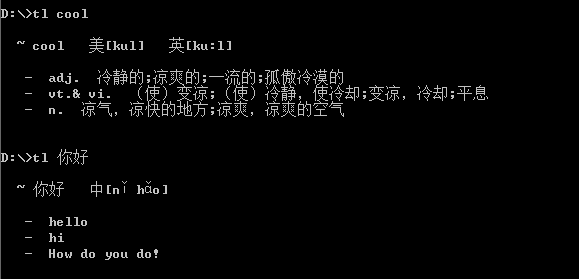
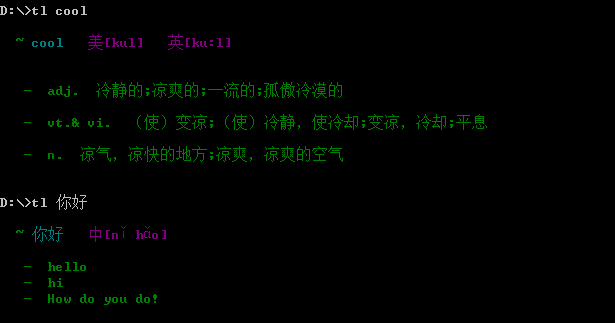
添加彩色翻译结果

diff --git a/engine/youdao.js b/engine/youdao.js
@@ -1,17 +1,18 @@
 const http = require('http');
+const chalk = require('chalk');
 
 module.exports = (query, config) => {
   const pos = Math.floor(Math.random() * config.youdao.length);
   const key = config.youdao[pos].key;
   const keyfrom = config.youdao[pos].keyfrom;
-
+  const q = query.join(' ');
   const data = {
     key,
     keyfrom,
     type: 'data',
     doctype: 'json',
     version: '1.1',
-    q: query.join(' ')
+    q
   }
 
   const errorCode = {
@@ -40,38 +41,39 @@ module.exports = (query, config) => {
       resData = JSON.parse(resData);
       let str = '';
       if (resData.errorCode === 0) {
-        str += `\r\n  ~ ${resData.query}`;
+        str += `\r\n  ${chalk.green('~')} ${chalk.cyan(resData.query)}`;
         
         if ('basic' in resData) {
           let basic = resData.basic
           if ('phonetic' in basic) {
-            str += `-[${basic.phonetic}]`;
+            str +=  chalk.magenta(` - [${basic.phonetic}]`);
           }
           if ('us-phonetic' in basic) {
-            str += `   美[${basic['us-phonetic']}]`;
+            str += chalk.magenta(`   美[${basic['us-phonetic']}]`);
           }
           if ('uk-phonetic' in basic) {
-            str += `   英[${basic['uk-phonetic']}]`;
+            str += chalk.magenta(`   英[${basic['uk-phonetic']}]`);
           }
-          str += `\r\n  ~ ${resData.translation.join(',')}`;
+          str += `\r\n  ${chalk.green('~')} ${chalk.cyan(resData.translation.join(','))}`;
           
           if ('explains' in basic) {
             str += `\r\n`;
             for (let item of basic.explains) {
-              str += `\r\n   -  ${item}`;
+              str += chalk.green(`\r\n   -  ${item}`);
             }
             str += `\r\n`;
           }
         } else {
-          str += `\r\n  ~ ${resData.translation.join(',')}`;
+          str += `\r\n  ${chalk.green('~')} ${chalk.cyan(resData.translation.join(','))}`;
         }
         
 
         if ('web' in resData) {
           let count = 1;
+          let regExp = new RegExp(`(${query.join('|')})`, 'ig');
           for (let item of resData.web) {
-            str += `\r\n   ${count++}. ${item.key}`;
-            str += `\r\n     ${item.value.join(',')} \r\n`;
+            str += `\r\n   ${chalk.gray(count++)}. ${item.key.replace(regExp, chalk.yellow(`$&`))}`;
+            str += chalk.blue(`\r\n     ${item.value.join(',')} \r\n`);
           }
           str += `\r\n`;
         }

diff --git a/engine/iciba.js b/engine/iciba.js
@@ -1,4 +1,5 @@
 const http = require('http');
+const chalk = require('chalk');
 
 module.exports = (query, config) => {
   const key = config.iciba.key;
@@ -26,33 +27,33 @@ module.exports = (query, config) => {
       resData = JSON.parse(resData);
       let str = '';
       if ('word_name' in resData) {
-        str += `\r\n  ~ ${resData.word_name}`;
+        str += `\r\n  ${chalk.green('~')} ${chalk.cyan(resData.word_name)}`;
         let symbols = resData.symbols[0];
         if ('word_symbol' in symbols) {
           if (symbols.word_symbol !== '') {
-            str += `   中[${symbols.word_symbol}]`;
+            str += chalk.magenta(`   中[${symbols.word_symbol}]`);
           }
 
           if ('parts' in symbols) {
             str += `\r\n`;
             for (let item of symbols.parts[0].means) {
-              str += `\r\n   -  ${item.word_mean} `;
+              str += chalk.green(`\r\n   -  ${item.word_mean} `);
             }
             str += `\r\n`;
           }
 
         } else {
           if (symbols.ph_am !== '') {
-            str += `   美[${symbols.ph_am}]`;
+            str += chalk.magenta(`   美[${symbols.ph_am}]`);
           }
           if (symbols.ph_en !== '') {
-            str += `   英[${symbols.ph_en}]`;
+            str += chalk.magenta(`   英[${symbols.ph_en}]`);
           }
           
           if ('parts' in symbols) {
             str += `\r\n`;
             for (let item of symbols.parts) {
-              str += `\r\n   -  ${item.part}  ${item.means.join(';')}`;
+              str += chalk.green(`\r\n\r\n   -  ${item.part}  ${item.means.join(';')}`);
             }
             str += `\r\n`;
           }

diff --git a/engine/baidu.js b/engine/baidu.js
@@ -1,5 +1,6 @@
 const http = require('http');
 const MD5 = require('../lib/md5');
+const chalk = require('chalk');
 
 module.exports = (query, config) => {
   const appid = config.baidu.appid;
@@ -33,7 +34,7 @@ module.exports = (query, config) => {
     });
     res.on("end", function() {
       resData = JSON.parse(resData);
-      let template = `\r\n ~ query \r\n ~ result \r\n`;
+      let template = `\r\n ${chalk.green('~')} query \r\n ${chalk.green('~')} result \r\n`;
       let str = '\r\n';
       if (!("trans_result" in resData)) {
         console.log('查询出错!错误信息如下:');
@@ -41,7 +42,7 @@ module.exports = (query, config) => {
         return;
       }
       for (let item of resData.trans_result) {
-        str += template.replace('query', item.src).replace('result', item.dst);
+        str += template.replace('query', chalk.cyan(item.src)).replace('result', chalk.cyan(item.dst));
       }
       console.log(str);
     });

diff --git a/README.md b/README.md
@@ -1,5 +1,5 @@
 # terminal-translate
-[![build](https://img.shields.io/badge/npm-1.0.3-blue.svg)](https://github.com/ShanaMaid/terminal-translate) 
+[![build](https://img.shields.io/badge/npm-1.0.4-blue.svg)](https://github.com/ShanaMaid/terminal-translate) 
 [![build](https://img.shields.io/npm/l/express.svg)](https://github.com/ShanaMaid/terminal-translate)
 [![download](https://img.shields.io/npm/dt/terminal-translate.svg?style=flat-square)](https://www.npmjs.com/package/terminal-translate)
 
@@ -156,6 +156,8 @@ tl -e iciba
 
 
 ## 版本更新记录
+
+v1.0.4 翻译结果支持彩色显示，更加显眼瞩目
 
 v1.0.3 支持爱词霸翻译引擎，新增3个有道翻译`key`
 
